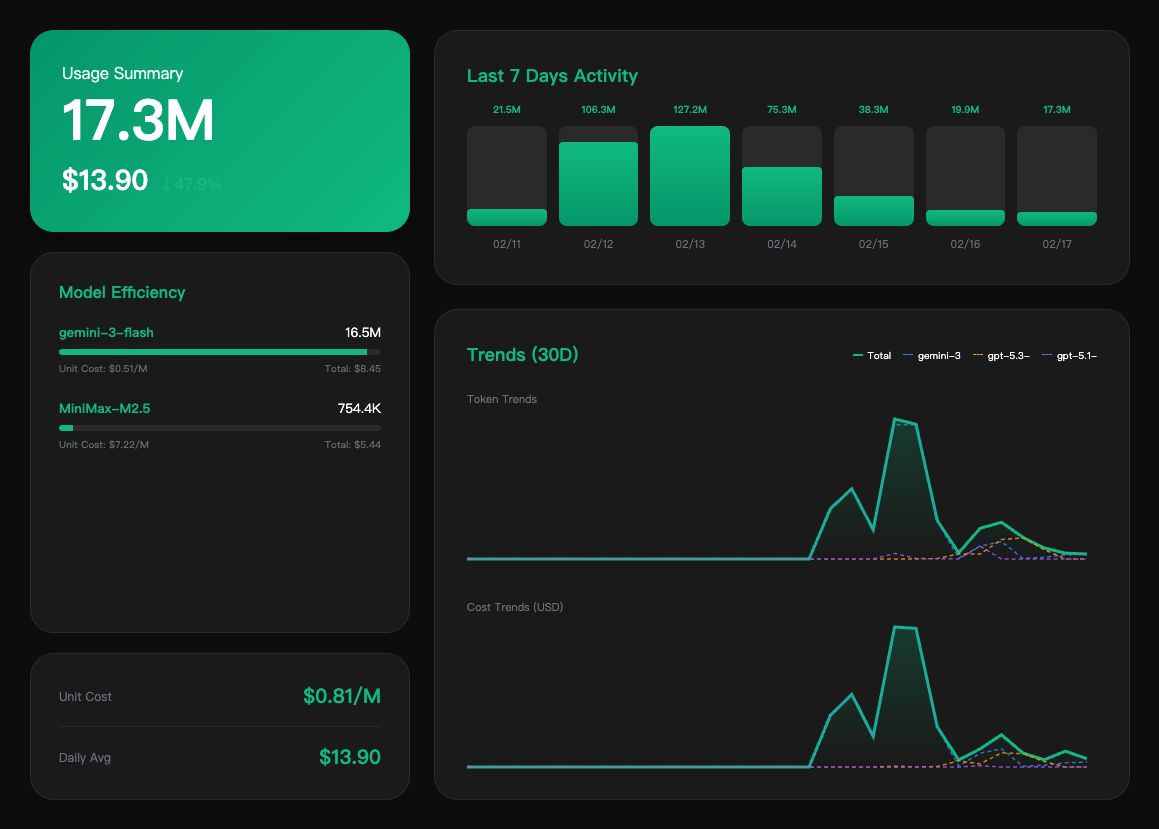
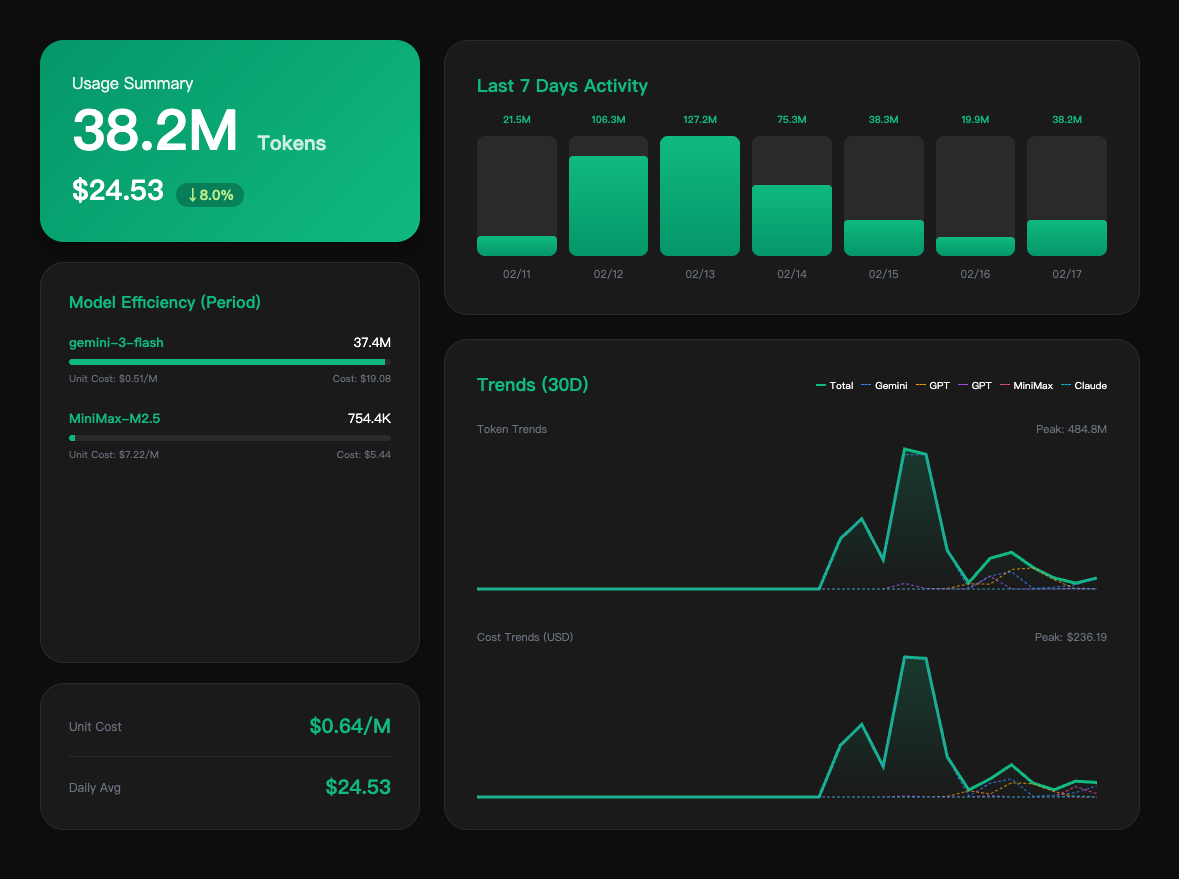
docs: overhaul SKILL.md for portability, completeness and version 8.0 features

diff --git a/SKILL.md b/SKILL.md
@@ -1,242 +1,150 @@
 ---
 name: llm-cost-monitor
-description: Track LLM API usage and costs from OpenClaw sessions with SQLite persistence, budget alerts, and visual HTML reports. No config required - works out of the box.
+description: Track LLM API usage and costs from OpenClaw sessions with SQLite persistence, budget alerts, and visual PPT-style reports. No config required.
 metadata: {"openclaw":{"emoji":"💰","requires":{"bins":["python3"]}}}
 ---
 
 # LLM Cost Monitor
 
-Track and monitor LLM API usage and costs from OpenClaw sessions with SQLite persistence, budget alerts, and visual HTML reports.
+Track and monitor LLM API usage and costs from OpenClaw sessions with SQLite persistence, budget alerts, and high-resolution visual reports.
 
 ## ✨ Features
 
-- **No config required!** - Just install and run
-- **Automatic OpenClaw detection** - Reads session logs automatically
-- **Accurate cost tracking** - Uses real cost data when available, calculates otherwise
-- **Cache token support** - Tracks Anthropic prompt caching (read/write)
-- **SQLite persistence** - Historical data stored locally
-- **Daily/weekly/monthly reports** - Multiple time periods
-- **Budget alerts** - Monitor your spending with exit codes
-- **Visual HTML reports** - Generate images for sharing
-- **Multi-provider support** - Anthropic, OpenAI, Gemini, MiniMax
+- **Zero Config** - Automatically detects OpenClaw and Clawdbot session logs.
+- **Accurate Tracking** - Supports real cost data and manual calculation with latest pricing.
+- **Smart Analytics** - Tracks Anthropic prompt caching (read/write) and calculates **Savings**.
+- **PPT-Style Reports** - Generates high-res horizontal reports with 30D SVG trend lines and model efficiency metrics.
+- **Idempotent Storage** - SQLite backend ensures data consistency even after full re-scans.
+- **Budget Guard** - Built-in alerting system for daily, weekly, and monthly spending.
 
 ## 🚀 Quick Start
 
 ```bash
-# Clone or install
+# Clone or install to your OpenClaw skills directory
 git clone https://github.com/VintLin/llm-cost-monitor.git
 cd llm-cost-monitor
 
 # Install dependencies
 pip install -r requirements.txt
 
-# Run - generates image report by default
-python3 scripts/html_report.py
+# Sync all historical data (First run)
+python3 scripts/fetch_usage.py --full
+
+# Generate your first visual report
+python3 scripts/generate_report_image.py --today
 ```
 
 ## ⚡ Usage
 
-**When user asks about usage:**
-Simply run the generate script and send the result:
+**To view your usage report:**
+Simply run the image generator. It automatically fetches today's data before rendering.
 
 ```bash
-cd "/Users/voter/.openclaw/workspace/001 [Projects]/Skill Create/llm-cost-monitor"
+# From the skill directory:
 python3 scripts/generate_report_image.py --today
 
-# Then send the generated image from workspace (auto-detected if OPENCLAW_WORKSPACE is set)
-# or check the output log for the exact path.
+# Or for a weekly view:
+python3 scripts/generate_report_image.py --period week
 ```
 
-The script automatically:
-1. Fetches latest usage data
-2. Generates HTML report
-3. Converts to PNG with smart cropping
-4. Saves to workspace or project root (auto-detects trusted directories)
+The script will:
+1. Fetch latest usage from session logs.
+2. Calculate costs and cache savings.
+3. Generate a PPT-style horizontal HTML report.
+4. Convert to a cropped PNG saved to your workspace (e.g., `~/llm-cost-report.png`).
 
 ### Output Modes
 
 | Scenario | Command | Output |
 |----------|---------|--------|
-| **Default** | `html_report.py` | 📊 Image → user's default channel |
-| User wants text | `report.py` | 📝 Text → user's default channel |
-| User wants JSON | `report.py --json` | 📋 JSON → user's default channel |
+| **Visual (Default)** | `generate_report_image.py` | 📊 High-res PNG → Workspace |
+| Text Summary | `report.py` | 📝 Markdown Text → Console |
+| Raw Data | `report.py --json` | 📋 JSON → Console |
 
-### Available Commands
+## 🔧 Available Commands
 
+### 1. Data Fetching
 ```bash
-# Fetch usage data from OpenClaw sessions
-python3 scripts/fetch_usage.py                    # Today's usage
-python3 scripts/fetch_usage.py --yesterday         # Yesterday
-python3 scripts/fetch_usage.py --last-days 7      # Last 7 days
-python3 scripts/fetch_usage.py --full             # Full historical scan (Deep Sync)
-
-# Text reports
-python3 scripts/report.py                         # Today's report
-python3 scripts/report.py --period yesterday       # Yesterday
-python3 scripts/report.py --period week           # This week
-python3 scripts/report.py --period month          # This month
-python3 scripts/report.py --json                   # JSON output
-
-# Visual HTML report (generate image)
-python3 scripts/html_report.py                    # Generate HTML
-python3 scripts/html_report.py --start 2026-01-01 --end 2026-01-31
-
-# Budget alerts
-python3 scripts/alert.py --budget-usd 50         # Check $50 budget (exit code 2 on breach)
-python3 scripts/alert.py --budget-usd 100 --mode warn  # Just warn, don't exit
-python3 scripts/alert.py --budget-usd 10 --period week   # Check weekly budget
+python3 scripts/fetch_usage.py --today       # Incremental sync (Today)
+python3 scripts/fetch_usage.py --last-days 7 # Sync last week
+python3 scripts/fetch_usage.py --full        # Full historical re-scan (Idempotent)
 ```
 
-## 📊 Data Dimensions
+### 2. Reporting
+```bash
+python3 scripts/report.py --period today     # Today's text report
+python3 scripts/report.py --period week      # Weekly text summary
+python3 scripts/report.py --json             # Output raw JSON for integrations
+```
 
-The tracker stores and analyzes:
+### 3. Visualizations
+```bash
+python3 scripts/generate_report_image.py --today       # Today's PPT card
+python3 scripts/generate_report_image.py --period week # Weekly PPT card
+```
+
+### 4. Budget Alerts
+```bash
+python3 scripts/alert.py --budget-usd 10 --period today  # Exit code 2 if exceeded
+python3 scripts/alert.py --budget-usd 50 --mode warn     # Log warning only
+```
+
+## 📊 Data Schema (SQLite)
 
 | Field | Description |
 |-------|-------------|
-| `date` | Usage date |
-| `provider` | API provider (anthropic, openai, gemini, etc.) |
-| `model` | Model name |
-| `app` | Application (openclaw, clawdbot) |
-| `source` | Data source (session, manual, api) |
-| `input_tokens` | Input tokens consumed |
-| `output_tokens` | Output tokens generated |
-| `cache_read_tokens` | Tokens read from cache (90% discount) |
-| `cache_creation_tokens` | Tokens written to cache |
-| `cost` | Calculated cost in USD |
-
-## 💾 SQLite Storage
-
-Data is stored at `~/.llm-cost-monitor/usage.db`
-
-### Query Examples
-
-```python
-from scripts.store import UsageStore
-
-store = UsageStore()
-
-# Get today's cost
-cost = store.get_total_cost("2026-02-17", "2026-02-17")
-
-# Get tokens summary (including cache)
-tokens = store.get_tokens_summary("2026-02-01", "2026-02-17")
-# Returns: {input_tokens, output_tokens, cache_read_tokens, cache_creation_tokens, total_tokens, total_cost}
-
-# Get daily breakdown
-daily = store.get_daily_summary("2026-02-01", "2026-02-17")
-# Returns: [{date, input_tokens, output_tokens, cache_read_tokens, cache_creation_tokens, cost}, ...]
-
-# Get by model
-by_model = store.get_cost_by_model("2026-02-01", "2026-02-17")
-# Returns: {"claude-opus-4": 45.50, "gpt-4o": 23.20, ...}
-
-# Get by app
-by_app = store.get_by_app("2026-02-01", "2026-02-17")
-# Returns: {"openclaw": 100.50, "clawdbot": 20.30}
-
-# Get by source
-by_source = store.get_by_source("2026-02-01", "2026-02-17")
-# Returns: {"session": 120.80}
-```
-
-## 🔔 Budget Alerts
-
-Integrate with cron or HEARTBEAT for automated monitoring:
-
-```bash
-# Check daily budget - exits with code 2 if exceeded
-python3 scripts/alert.py --budget-usd 10 --period today
-
-# Check weekly budget - warn only (no exit)
-python3 scripts/alert.py --budget-usd 50 --period week --mode warn
-
-# Check monthly budget
-python3 scripts/alert.py --budget-usd 100 --period month
-```
-
-### Exit Codes
-
-- `0` - Within budget
-- `2` - Budget exceeded (use in cron to trigger alerts)
-
-## 🖼 Visual Reports
-
-Generate HTML reports that can be converted to images:
-
-```bash
-# Generate HTML report
-python3 scripts/html_report.py --output /tmp/report.html
-
-# The HTML uses minimal inline styles and can be converted to PNG
-# using html2image or similar tools
-```
+| `date` | ISO Date (YYYY-MM-DD) |
+| `provider` | Model provider (Anthropic, OpenAI, Gemini, etc.) |
+| `model` | Specific model name |
+| `input_tokens` | Prompt tokens consumed |
+| `output_tokens` | Completion tokens generated |
+| `cache_read_tokens` | Tokens retrieved from cache (Savings applied) |
+| `cost` | Total calculated cost in USD |
+| `savings` | Estimated money saved via prompt caching |
 
 ## 📁 Project Structure
 
 ```
 llm-cost-monitor/
-├── SKILL.md                    # Skill definition
-├── README.md                   # This file
-├── requirements.txt             # Python dependencies
-├── config/
-│   └── config.yaml.example    # Optional config template
+├── assets/                     # Versioned screenshots and assets
+├── config/                     # Configuration templates
+├── examples/                   # Usage examples and sample reports
 ├── scripts/
-│   ├── fetch_usage.py         # Fetch usage from sessions
-│   ├── calc_cost.py           # Cost calculation with pricing
-│   ├── store.py               # SQLite storage
-│   ├── report.py              # Text reports
-│   ├── html_report.py         # Visual HTML reports
-│   ├── alert.py               # Budget alerts
-│   └── notify.py             # Multi-channel notification
-└── examples/
-    ├── report-sample.png       # Sample image output
-    └── cron_example.sh         # Cron examples
+│   ├── fetch_usage.py          # Log parser and sync engine
+│   ├── calc_cost.py            # Pricing logic and savings calculator
+│   ├── store.py                # SQLite database interface
+│   ├── report.py               # Text/JSON reporter
+│   ├── html_report.py          # PPT-style HTML template engine
+│   ├── generate_report_image.py # Image renderer (html2image + PIL)
+│   ├── alert.py                # Budget monitor
+│   └── notify.py               # Notification dispatcher
+├── SKILL.md                    # Skill definition
+└── README.md                   # Project documentation
 ```
 
-## 🤖 Automation
+## 🤖 OpenClaw Integration
 
-### Cron Job Example
-
-```bash
-# Run daily at 9 AM - fetch and check budget
-0 9 * * * cd /path/to/llm-cost-monitor && python3 scripts/fetch_usage.py --yesterday && python3 scripts/alert.py --budget-usd 10 --period yesterday || echo "Budget exceeded!"
-```
-
-### OpenClaw HEARTBEAT Integration
-
-Add to your HEARTBEAT.md:
-
-```markdown
-### LLM Cost Check (daily)
-- Run: python3 scripts/alert.py --budget-usd 10 --period yesterday --mode warn
-- If exit code 2, send alert to user
-```
-
-### OpenClaw Cron
+### Automated Daily Report (Cron)
+Add this to your OpenClaw cron configuration:
 
 ```json
 {
-  "name": "llm-cost-weekly-report",
-  "schedule": {"kind": "cron", "expr": "0 9 * * 1", "tz": "Asia/Shanghai"},
-  "payload": {"kind": "agentTurn", "message": "Run fetch_usage.py && html_report.py"},
-  "sessionTarget": "isolated",
-  "delivery": {"mode": "announce"}
+  "name": "daily-cost-report",
+  "schedule": {"kind": "cron", "expr": "0 23 * * *", "tz": "Asia/Shanghai"},
+  "payload": {
+    "kind": "agentTurn", 
+    "message": "Run generate_report_image.py --today and send the resulting PNG from my workspace."
+  },
+  "sessionTarget": "isolated"
 }
 ```
 
 ## 📝 Requirements
 
 - Python 3.8+
-- pyyaml
-- requests
-- html2image (for visual reports)
-
-## 🔧 How It Works
-
-1. **Finds session files**: `~/.openclaw/agents/*/sessions/*.jsonl`
-2. **Parses usage data**: Extracts tokens, cache, cost from each call (supports historical timestamp extraction)
-3. **Stores in SQLite**: Persists historical data locally with idempotency (updates on conflict)
-4. **Generates reports**: Text or HTML output
+- `html2image` (Browser-based rendering)
+- `Pillow` (Smart cropping and image processing)
+- `PyYAML` (Config parsing)
 
 ## 📄 License
 
